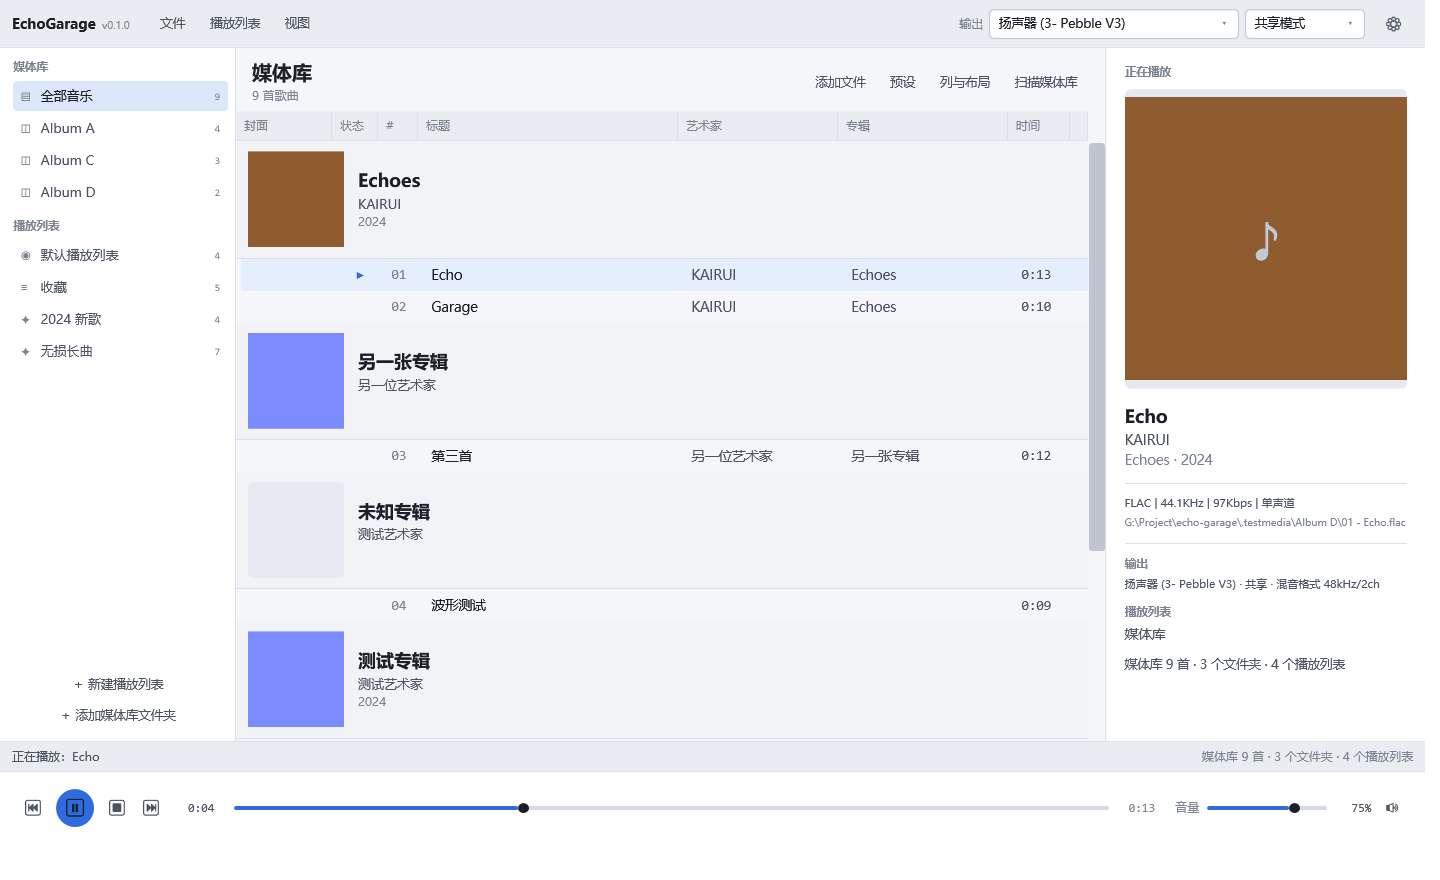
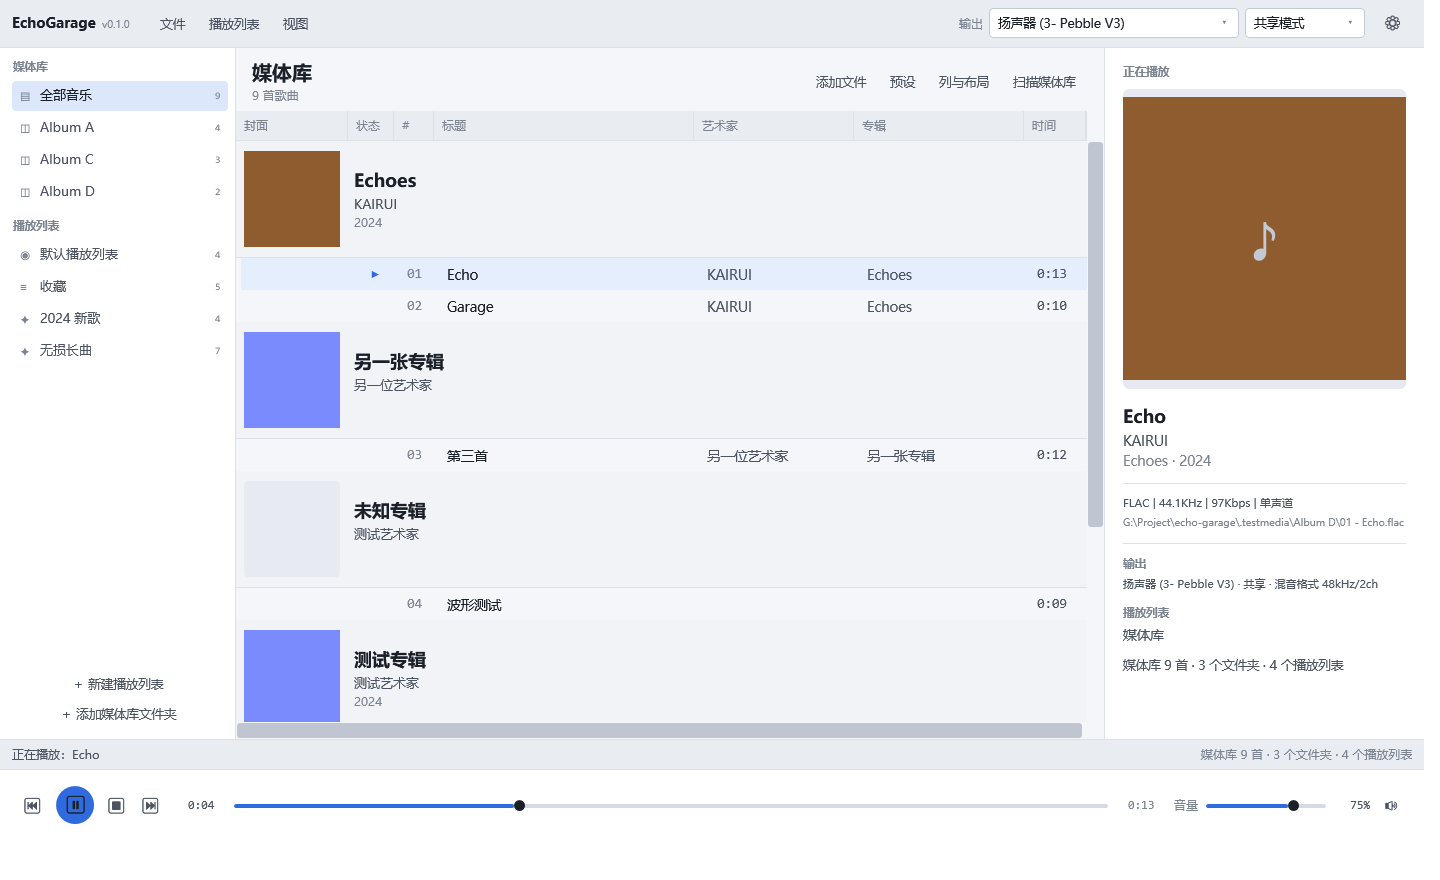
docs: 归档已批准的 ADR-010 / KB-006 / KB-007，撤回 ADR-011（改记 KB-008）
- ADR-010 媒体库缓存可用性失效：owner 批准，移入 docs/adr 并更新索引；
  ADR-007 增量判断补充 DurationMs>0 条件。
- KB-006 多主题实现笔记、KB-007 扫描读标签/进度条点击坑：owner 批准，移入 docs/kb。
- ADR-011 提案按 owner 要求撤回；分组封面相关说明改为 KB-008，并更新为
  封面列宽 = 显示尺寸 + 左右 8px 内边距、进度条空状态等内容。
- docs/proposals 当前无待批准提案。

diff --git a/docs/kb/KB-008-grouped-cover-and-layout-persistence.md b/docs/kb/KB-008-grouped-cover-and-layout-persistence.md
@@ -1,26 +1,28 @@
-# KB-008：分组封面尺寸、布局持久化与音量/静音状态
+# KB-008：分组封面尺寸、布局持久化、进度条空状态与音量/静音
 
-- 状态：已批准（Accepted，2026-11-10，owner 指示记录为 KB，不需要 ADR）
+- 状态：已批准（Accepted，2026-11-10，owner 指示记录为 KB，不需要 ADR；2026-11-11 更新）
 - 日期：2026-11-10
 - 关联：ADR-005（播放列表显示格式）、ADR-006（配置与媒体库分离）
-- 适用范围：`PlaylistViewLayout`、`MainWindow` 列构建与分组头、底部音量区
+- 适用范围：`PlaylistViewLayout`、`MainWindow` 列构建与分组头、底部进度条与音量区
 
 ## 1. 分组封面尺寸（GroupCoverSize）
 
-- `PlaylistViewLayout` 增加 `GroupCoverSize`（double，默认 96，范围 48–320），随布局一起
-  序列化：媒体库视图存 `settings.json` 的 `libraryLayout`，普通播放列表存各自
-  `ViewLayoutJson`；旧 JSON 没有该字段时按 96 处理（`ViewLayoutFactory.Normalize` 里
+- `PlaylistViewLayout` 增加 `GroupCoverSize`（double，默认 96，范围 48–320），表示**实际显示的
+  封面边长**，随布局一起序列化：媒体库视图存 `settings.json` 的 `libraryLayout`，普通播放列表
+  存各自 `ViewLayoutJson`；旧 JSON 没有该字段时按 96 处理（`ViewLayoutFactory.Normalize` 里
   `<= 0` 视为缺失，超出范围则 clamp）。
-- 分组模式下“封面”列宽就是 `GroupCoverSize`：列的最小 / 最大宽度也限制为 48 / 320，
-  因此拖动表头右缘即可实时改变分组头封面；该值**不写回**普通模式下的封面列宽，
+- 分组模式下封面列宽 = `GroupCoverSize + 16`（左右各 8px 内边距）；列的最小 / 最大宽度相应为
+  64 / 336。拖动表头右缘时 `GroupCoverSize = 列宽 - 16`。该值**不写回**普通模式下的封面列宽，
   取消分组后逐行封面仍用原列宽（行内图片固定 24px，与行高 32px 匹配）。
+- 对齐：分组头模板 `Padding="8,10"`，与 `DataGridColumnHeader` 的 `Padding="8,0"` 一致，因此
+  封面在封面列内的左右留白相等，正好和“封面”表头文字对齐，右缘不会越过分栏线。
 - 实时联动：`MainWindow` 用 `DependencyPropertyDescriptor.FromProperty(DataGridColumn.WidthProperty, ...)`
   监听封面列的宽度变化，写入 `MainViewModel.GroupCoverSize`（ObservableProperty）；
   分组头模板的封面 `Border` 通过
   `{Binding DataContext.GroupCoverSize, RelativeSource={RelativeSource AncestorType=Window}}`
   绑定宽高，所以拖动时封面跟手变化。
 - 持久化：拖动停下后 600ms 防抖调用 `PersistCurrentLayout(CaptureLayoutFromGrid())`；
-  `CaptureLayoutFromGrid` 在分组模式下把封面列 `ActualWidth` 写进 `GroupCoverSize`，
+  `CaptureLayoutFromGrid` 在分组模式下把 `封面列 ActualWidth - 16` 写进 `GroupCoverSize`，
   普通列宽照旧。关闭窗口 / 切换播放列表仍走原有保存路径。
 - 列与布局对话框只编辑列，`GroupCoverSize` 原样透传；应用预设时保留当前值（预设不包含
   封面尺寸，`ColumnPreset` 未增加字段）。
@@ -42,7 +44,19 @@
 - 相关日志：`Persist layout: captured=... selected=...`、`Persist layout skipped: ...`、
   `Layout changed: groupCoverSize=...`、`Applying layout: ...`（均为 `[DEBUG]`）。
 
-## 3. 音量百分比与静音状态
+## 3. 无播放时的进度条空状态
+
+- 现象：启动后未播放时，进度条看起来“已满”、Thumb 停在最右侧。
+- 原因：滑块 `Minimum=0`、`Maximum` 绑定 `DurationSeconds`，无歌曲时两者都是 0；WPF `Track`
+  在 `Minimum == Maximum` 时把 Thumb 放在右端、把 Decrease 区画满，所以像已播放完。
+- 修复：`MainViewModel.SeekMaximum => DurationSeconds > 0 ? DurationSeconds : 1`，`Maximum`
+  绑定它；空闲时 `Maximum=1, Value=0`，Thumb 在最左侧、轨道为空。`DurationSeconds` 变化时
+  手动通知 `SeekMaximum`。
+- 同时把进度条 `IsEnabled` 绑定到 `HasCurrentTrack`，无播放时不可拖动（避免拖动 Thumb 把
+  `Value` 的 OneWay 绑定顶掉）；Slider 样式补了 `IsEnabled=False` 时 `Opacity=0.45`，
+  空状态一眼可辨。
+
+## 4. 音量百分比与静音状态
 
 - 滑块右侧显示 `VolumeText`：未静音显示四舍五入百分比（如 `70%`），静音时显示“静音”。
 - 静音按钮：`Content` 绑定 `MuteGlyph`（🔊 / 🔇）、`ToolTip` 绑定 `MuteToolTip`
@@ -52,11 +66,12 @@
   `Player.Volume=0`，取消静音恢复 `Volume/100`。
 - 相关 `AutomationId`：`VolumeSlider`、`VolumeText`、`MuteButton`，方便 UI 自动化验证。
 
-## 4. 验证
+## 5. 验证
 
 - 单元测试：`ViewLayoutTests.Normalize_ClampsGroupedCoverSize_AndRoundTrips`（默认值 / clamp /
   序列化 / Clone）。
-- UI：`--screenshot` 分别截默认 96px 和拖动后 176px 的分组封面；静音状态截图确认
-  “静音”文字 + 高亮按钮；重启后 `libraryLayout.groupCoverSize` 保持 176。
+- UI：`--screenshot` 分别截默认 96px 和拖动后 176px 的分组封面，检查封面左右留白相等、
+  与“封面”表头对齐且不越过分栏线；截无播放时的进度条，确认 Thumb 在最左侧、轨道为空。
+- 静音状态截图确认“静音”文字 + 高亮按钮；重启后 `libraryLayout.groupCoverSize` 保持。
 - 鼠标拖拽用 UI Automation 定位表头 `Thumb` 后 `SetCursorPos + mouse_event` 模拟，
   拖完读 `settings.json` 确认保存。

diff --git a/docs/adr/ADR-010-metadata-cache-invalidation.md b/docs/adr/ADR-010-metadata-cache-invalidation.md
@@ -1,6 +1,6 @@
 # ADR-010：媒体库缓存的“可用性”失效条件
 
-- 状态：提案（待 owner 批准）
+- 状态：已批准（Accepted，2026-11-11，owner）
 - 日期：2026-11-10
 - 关联：ADR-003（文件是唯一真相）、ADR-007（文件变更跟踪）
 - 适用范围：`LibraryScanner` 的增量判断、`SqliteLibraryRepository` 的缓存行查询
@@ -46,8 +46,7 @@
 
 - 旧版本留下的无效缓存会在升级后的首次启动自动修复，用户无感（约 1 s 后台扫描）。
 - 极端情况下（文件损坏、读不出时长）每次扫描会重试该文件；可接受，必要时后续加“损坏”标记。
-- ADR-007 描述“增量比对大小与修改时间”，若本提案批准，应同步在 ADR-007 里补一句
-  “缓存行还必须具备可用时长”，保持文档一致。
+- ADR-007 的增量判断已同步补充“缓存行还必须具备可用时长（`DurationMs > 0`）”，保持文档一致。
 
 ## 验证
 

diff --git a/docs/adr/ADR-007-file-watching.md b/docs/adr/ADR-007-file-watching.md
@@ -18,6 +18,7 @@
    - 文件存在 → 重新索引该文件，并刷新来源与当前列表；
    - 文件不存在 → `IsMissing = 1`。
 3. 增量判断始终基于 `FileSize + LastWriteTimeUtc`；监听事件只是“提示可能有变化”，最终以文件系统状态为准。
+   （ADR-010 补充：缓存行还必须具备可用时长 `DurationMs > 0`，缺少时长的行视为失效缓存并在扫描时重建。）
 4. 启动扫描与监听互补：监听保证运行期实时性，启动扫描补齐离线期间的变化。
 5. 封面缓存同样依赖 `mtime:size` 作为失效依据；文件变化后旧缓存不再被引用。
 

diff --git a/docs/proposals/README.md b/docs/proposals/README.md
@@ -12,5 +12,6 @@
 ## 当前状态
 
 - 2026-11-09：ADR-001…009 与 KB-001…005 已获 owner 批准并归档到 `docs/adr/`、`docs/kb/`。
-- 待批准提案：
-  - `KB-006-theme-system.md`（多主题 / 浅色主题实现笔记）
+- 2026-11-11：ADR-010、KB-006、KB-007 已获 owner 批准并归档；ADR-011 提案撤回，
+  相关内容按 owner 要求改为 `docs/kb/KB-008-*`。
+- 待批准提案：无。

diff --git a/docs/kb/KB-007-scan-read-style-and-seek-input.md b/docs/kb/KB-007-scan-read-style-and-seek-input.md
@@ -1,6 +1,6 @@
 # KB-007：扫描读取标签与进度条点击的两个 WPF / TagLib 坑
 
-- 状态：提案（待 owner 批准）
+- 状态：已批准（Accepted，2026-11-11，owner）
 - 日期：2026-11-10
 - 关联：KB-005（TagLib# 使用细节）、ADR-009（WASAPI 播放管线）、ADR-010（缓存可用性失效）
 - 环境：TagLibSharp 2.3.0、.NET 10 WPF

diff --git a/docs/kb/KB-006-theme-system.md b/docs/kb/KB-006-theme-system.md
@@ -1,6 +1,6 @@
 # KB-006：多主题与浅色主题实现笔记
 
-- 状态：提案（待 owner 批准）
+- 状态：已批准（Accepted，2026-11-11，owner）
 - 日期：2026-11-09
 - 适用范围：EchoGarage.App 的 WPF 主题
 
